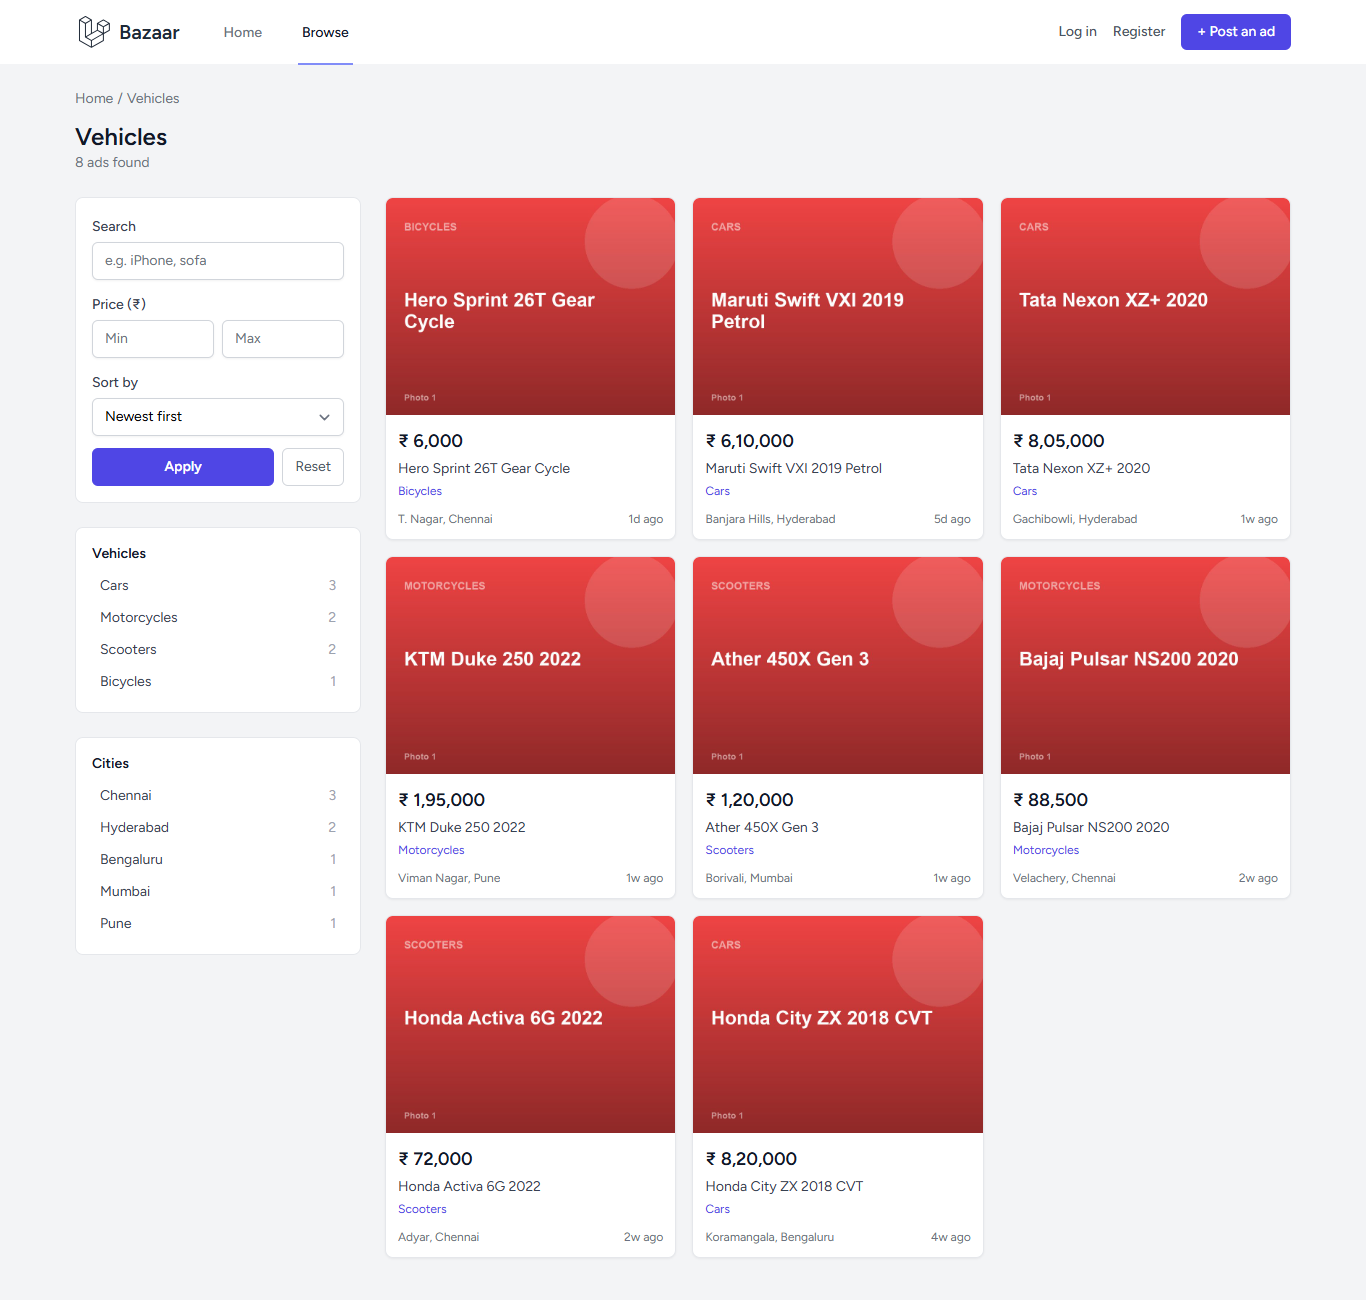
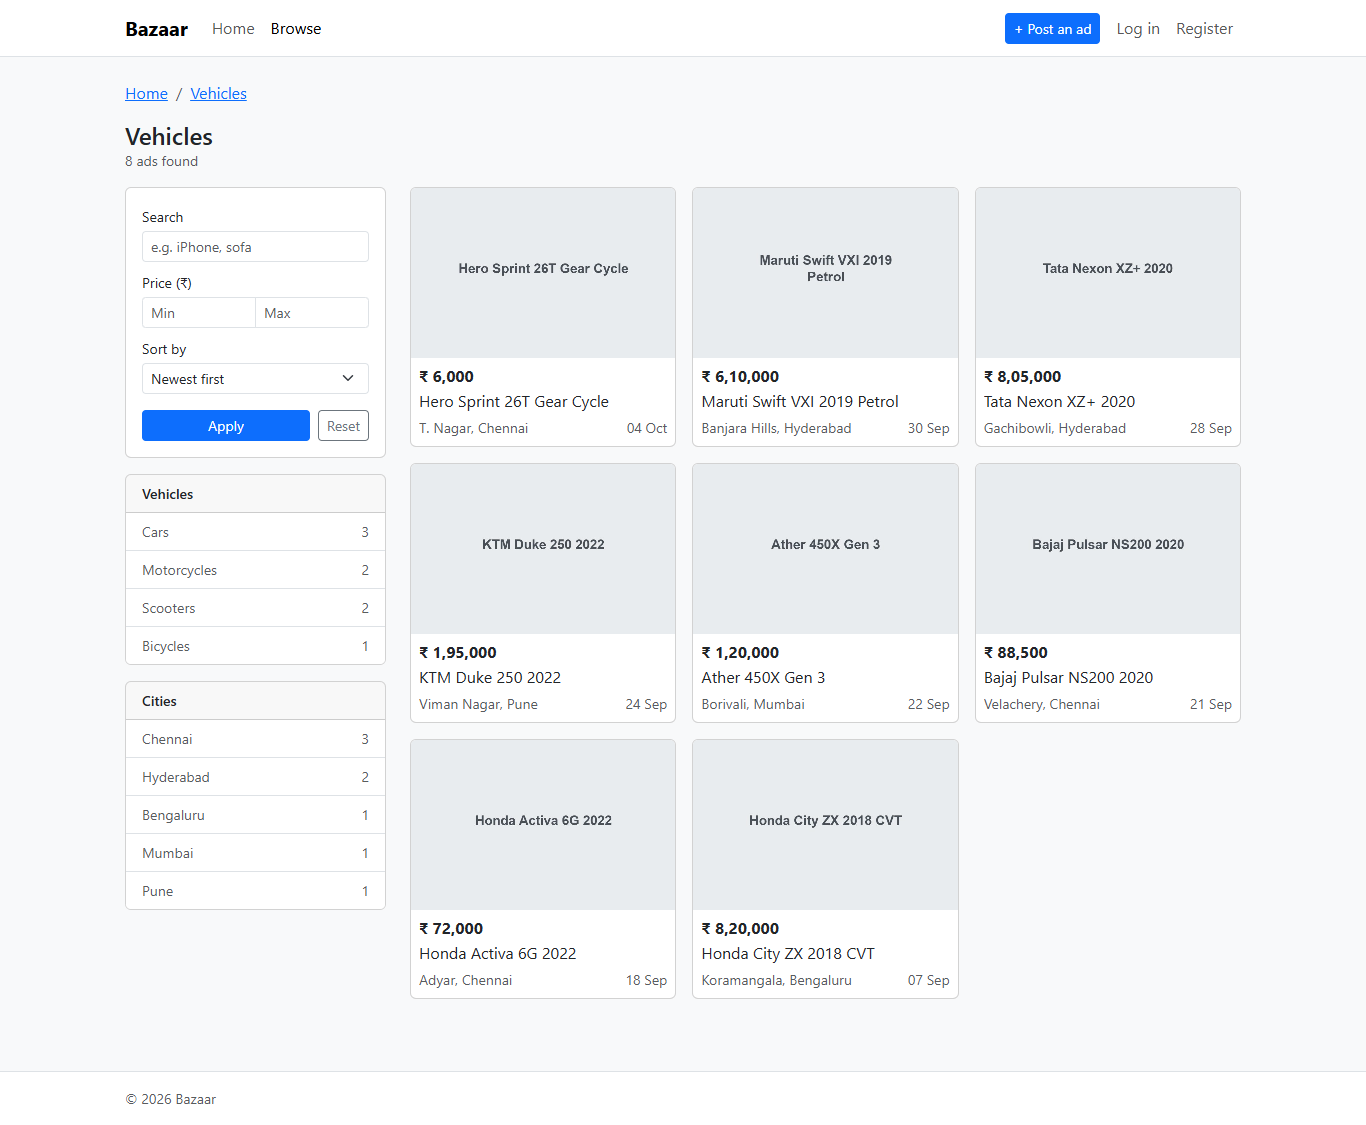
Update README, notes and screenshots for the Bootstrap design

diff --git a/CLAUDE.md b/CLAUDE.md
@@ -10,7 +10,7 @@ Practical assessment for a Part-Time Laravel Developer role at Honeybee Digital.
 - Listing detail page
 
 ## Stack
-Laravel 12, Breeze (Blade + Tailwind + Alpine.js), MySQL (XAMPP, db `laravel_marketplace`, user root, no password), PHP 8.2.
+Laravel 12, Breeze auth with Blade views styled in Bootstrap 5 (Tailwind removed), Alpine.js for the small dynamic parts, jQuery Validation on login/register, MySQL (XAMPP, db `laravel_marketplace`, user root, no password), PHP 8.2.
 
 ## Architecture decisions
 - `categories` table points to itself: `parent_id` NULL = category, set = subcategory.
@@ -61,5 +61,11 @@ Final pass done:
 - Deleting an account also deletes the user's photo files and upload folders (User model `deleting`/`deleted` events), soft-deleted ads included
 - Login/register: browser validation off (`novalidate`), jQuery Validation instead (`resources/js/auth-validation.js`, separate Vite entry); strong passwords via `Password::defaults()` in AppServiceProvider; live checklist, strength meter, show/hide, suggest password; `RegistrationValidationTest`
 - 65 PHPUnit tests passing (demo users keep `password`: login does not check strength)
+
+Design switched to plain Bootstrap 5 (user asked for a simple, normal Bootstrap look):
+- Tailwind removed; `resources/css/app.css` imports Bootstrap; `Paginator::useBootstrapFive()`
+- Breeze components rewritten for Bootstrap (dropdown/modal/nav-link components deleted; navbar collapse + dropdown + delete-account modal use Bootstrap JS)
+- Demo images are plain grey placeholders with the title
+- jQuery Validation uses `is-invalid` / `invalid-feedback`; re-validates flagged fields on `input` (paste/autofill)
 
 Remaining (optional): push to GitHub when the user asks (no remote yet).

diff --git a/README.md b/README.md
@@ -2,7 +2,7 @@
 
 A classifieds marketplace where users register, post products or services with a category and full location (country → state → city → area), and browse listings by category, by city, or by city + category.
 
-Built with **Laravel 12**, **Breeze (Blade + Tailwind + Alpine.js)** and **MySQL**.
+Built with **Laravel 12**, **Breeze** auth (Blade views), **Bootstrap 5**, jQuery Validation, a little Alpine.js and **MySQL**.
 
 ![Home page](docs/screenshots/home.png)
 
